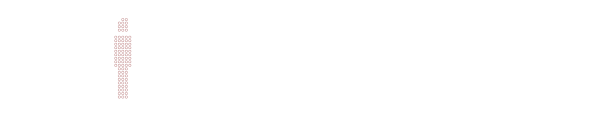
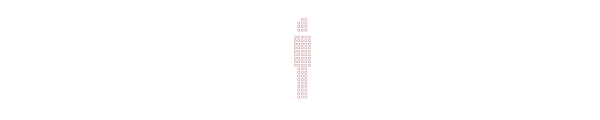
add action frames to begining animation

diff --git a/Pictam/app/src/main/java/android/pictam/sakailab/com/pictam/ImageAnimationFragment.java b/Pictam/app/src/main/java/android/pictam/sakailab/com/pictam/ImageAnimationFragment.java
@@ -63,6 +63,12 @@ public class ImageAnimationFragment extends Fragment {
             R.drawable.begining_of_animation_00027,
             R.drawable.begining_of_animation_00028,
             R.drawable.begining_of_animation_00029,
+            R.drawable.begining_of_animation_00030,
+            R.drawable.begining_of_animation_00031,
+            R.drawable.begining_of_animation_00032,
+            R.drawable.begining_of_animation_00033,
+            R.drawable.begining_of_animation_00034,
+            R.drawable.begining_of_animation_00035,
     };
 
 
